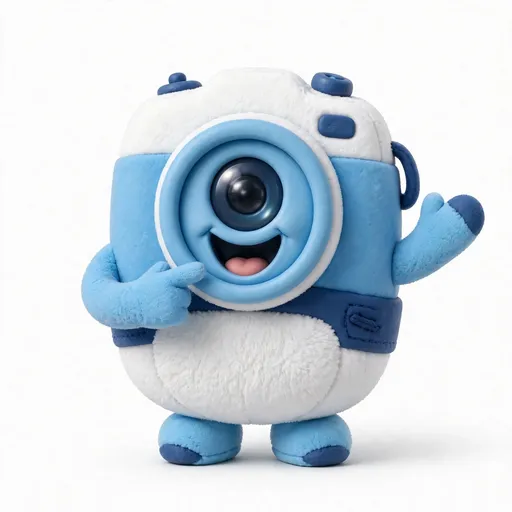
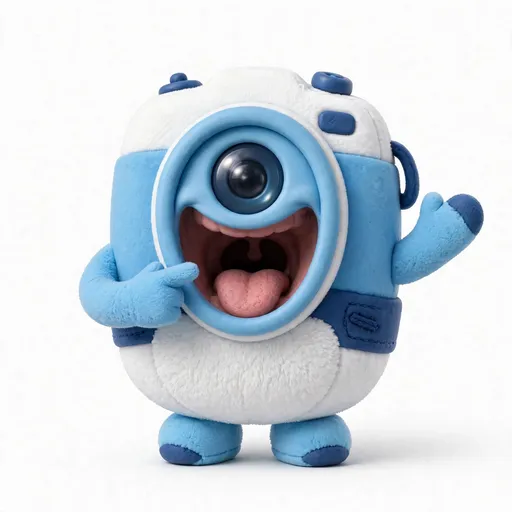
Hero mascot: swap in the big-mouth Camera Buddy variant and enlarge the medallion (120px -> 160px desktop, 76px -> 96px mobile) with the circular crop zoomed onto the face (scale 1.8, origin 50%/42%) so the wide-open mouth is unmissable at display size

diff --git a/components/hero-tool.tsx b/components/hero-tool.tsx
@@ -904,23 +904,26 @@ export function HeroTool() {
 
   return (
     <div className="relative z-10 mx-auto mt-6 max-w-3xl text-left">
-      {/* Open-mouth mascot (public/mascot-mouth.webp — its mouth sits over the
-          drop zone's top edge, "receiving" the file) */}
-      <div className="pointer-events-none absolute -top-10 right-3 z-20 flex items-end md:-top-14 md:right-6">
+      {/* Big-mouth mascot (public/mascot-mouth.webp — the medallion crop is
+          zoomed onto the face so the wide-open mouth reads clearly; the
+          medallion sits over the drop zone's top edge, "receiving" the file) */}
+      <div className="pointer-events-none absolute -top-12 right-3 z-20 flex items-end md:-top-[76px] md:right-6">
         <div className="relative mb-14 mr-1 hidden max-w-[200px] rounded-2xl bg-white px-3.5 py-2.5 text-[13px] font-medium leading-snug text-gray-700 shadow-xl ring-1 ring-black/5 sm:block">
           {bubbleText}
           <span aria-hidden className="absolute -right-1 bottom-5 h-3 w-3 rotate-45 bg-white" />
         </div>
         <div className={dragOver ? 'hero-wiggle' : 'hero-float'}>
           <div key={chompKey} className={chompKey > 0 ? 'hero-chomp' : undefined}>
-            <NextImage
-              src="/mascot-mouth.webp"
-              alt="Snaptoria mascot with its mouth open, ready for your file"
-              width={128}
-              height={128}
-              priority
-              className="h-[76px] w-[76px] rounded-full object-cover shadow-2xl ring-4 ring-white md:h-[120px] md:w-[120px]"
-            />
+            <div className="h-[96px] w-[96px] overflow-hidden rounded-full shadow-2xl ring-4 ring-white md:h-[160px] md:w-[160px]">
+              <NextImage
+                src="/mascot-mouth.webp"
+                alt="Snaptoria mascot with its mouth wide open, ready for your file"
+                width={512}
+                height={512}
+                priority
+                className="h-full w-full origin-[50%_42%] scale-[1.8] object-cover"
+              />
+            </div>
           </div>
         </div>
       </div>
